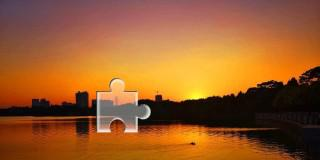
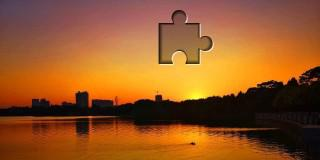
3.3更新补充，改了点bug
忽略非py文件

Changed region(s): [[0.4688, 0.0625, 0.6875, 0.4375], [0.2812, 0.4688, 0.4688, 0.8438]]

diff --git a/find.py b/find.py
@@ -12,10 +12,11 @@ def find_pic(order):
             r1,g1,b1 = image1.getpixel((i,j))
             r2,g2,b2 = image2.getpixel((i,j))
             if r1 !=0:
-                if ((r2)/(r1)<0.9):
+                scale = r2/r1
+                if scale < 0.9:
                     num += 1
                     image3.putpixel((i,j),(0,0,0,0))
-                if  (r2)/(r1)>1.1:
+                if  scale>1.1:
                     num += 1
                     image3.putpixel((i,j),(126,0,0,0))
     if num < 4000:
@@ -38,8 +39,9 @@ def find_distance(fileorder):
             r1,g1,b1 = image.getpixel((i,j))
             if r1 in judgelist:
                 num += 1
-        if num > 25:
+        if num > 20:
             return i
+    return 0
 
 if __name__ == "__main__":
     for i in range(1,6):

diff --git a/get_validate.py b/get_validate.py
@@ -22,7 +22,7 @@ class CrackSlider():
         self.url = os.getcwd()+'\\code.html'
         # 声明一个谷歌配置对象
         self.opts = webdriver.ChromeOptions()    
-        # 设置成无头
+        # # 设置成无头
         self.opts.add_argument('--headless')
         self.opts.add_argument('--disable-gpu')
         # 设置开发者模式，防止被检测出来 ↓
@@ -77,8 +77,9 @@ def get_validate():
             if fileorder != 0:
                 break
         distance = find_distance(fileorder)
-        validate = cs.crack_slider(distance)
-        return validate
+        if distance != 0:
+            validate = cs.crack_slider(distance)
+    return validate
 
 if __name__ == '__main__':
     validate = get_validate()

diff --git a/main.py b/main.py
@@ -165,11 +165,11 @@ def main():
                     msg_error += '错误信息为%s\n'%e
                     if try_num == try_max_num:
                         msg += '%s自动打卡失败\n'%name
-            print('%s自动打卡已完成！'%name)
+            print('请查看%s的打卡信息'%name)
     except IndexError:
         pass
     msg += get_weather(msg)
-    mail_group(msg)
+    # mail_group(msg)
     mail(msg_error)
     return msg
 
